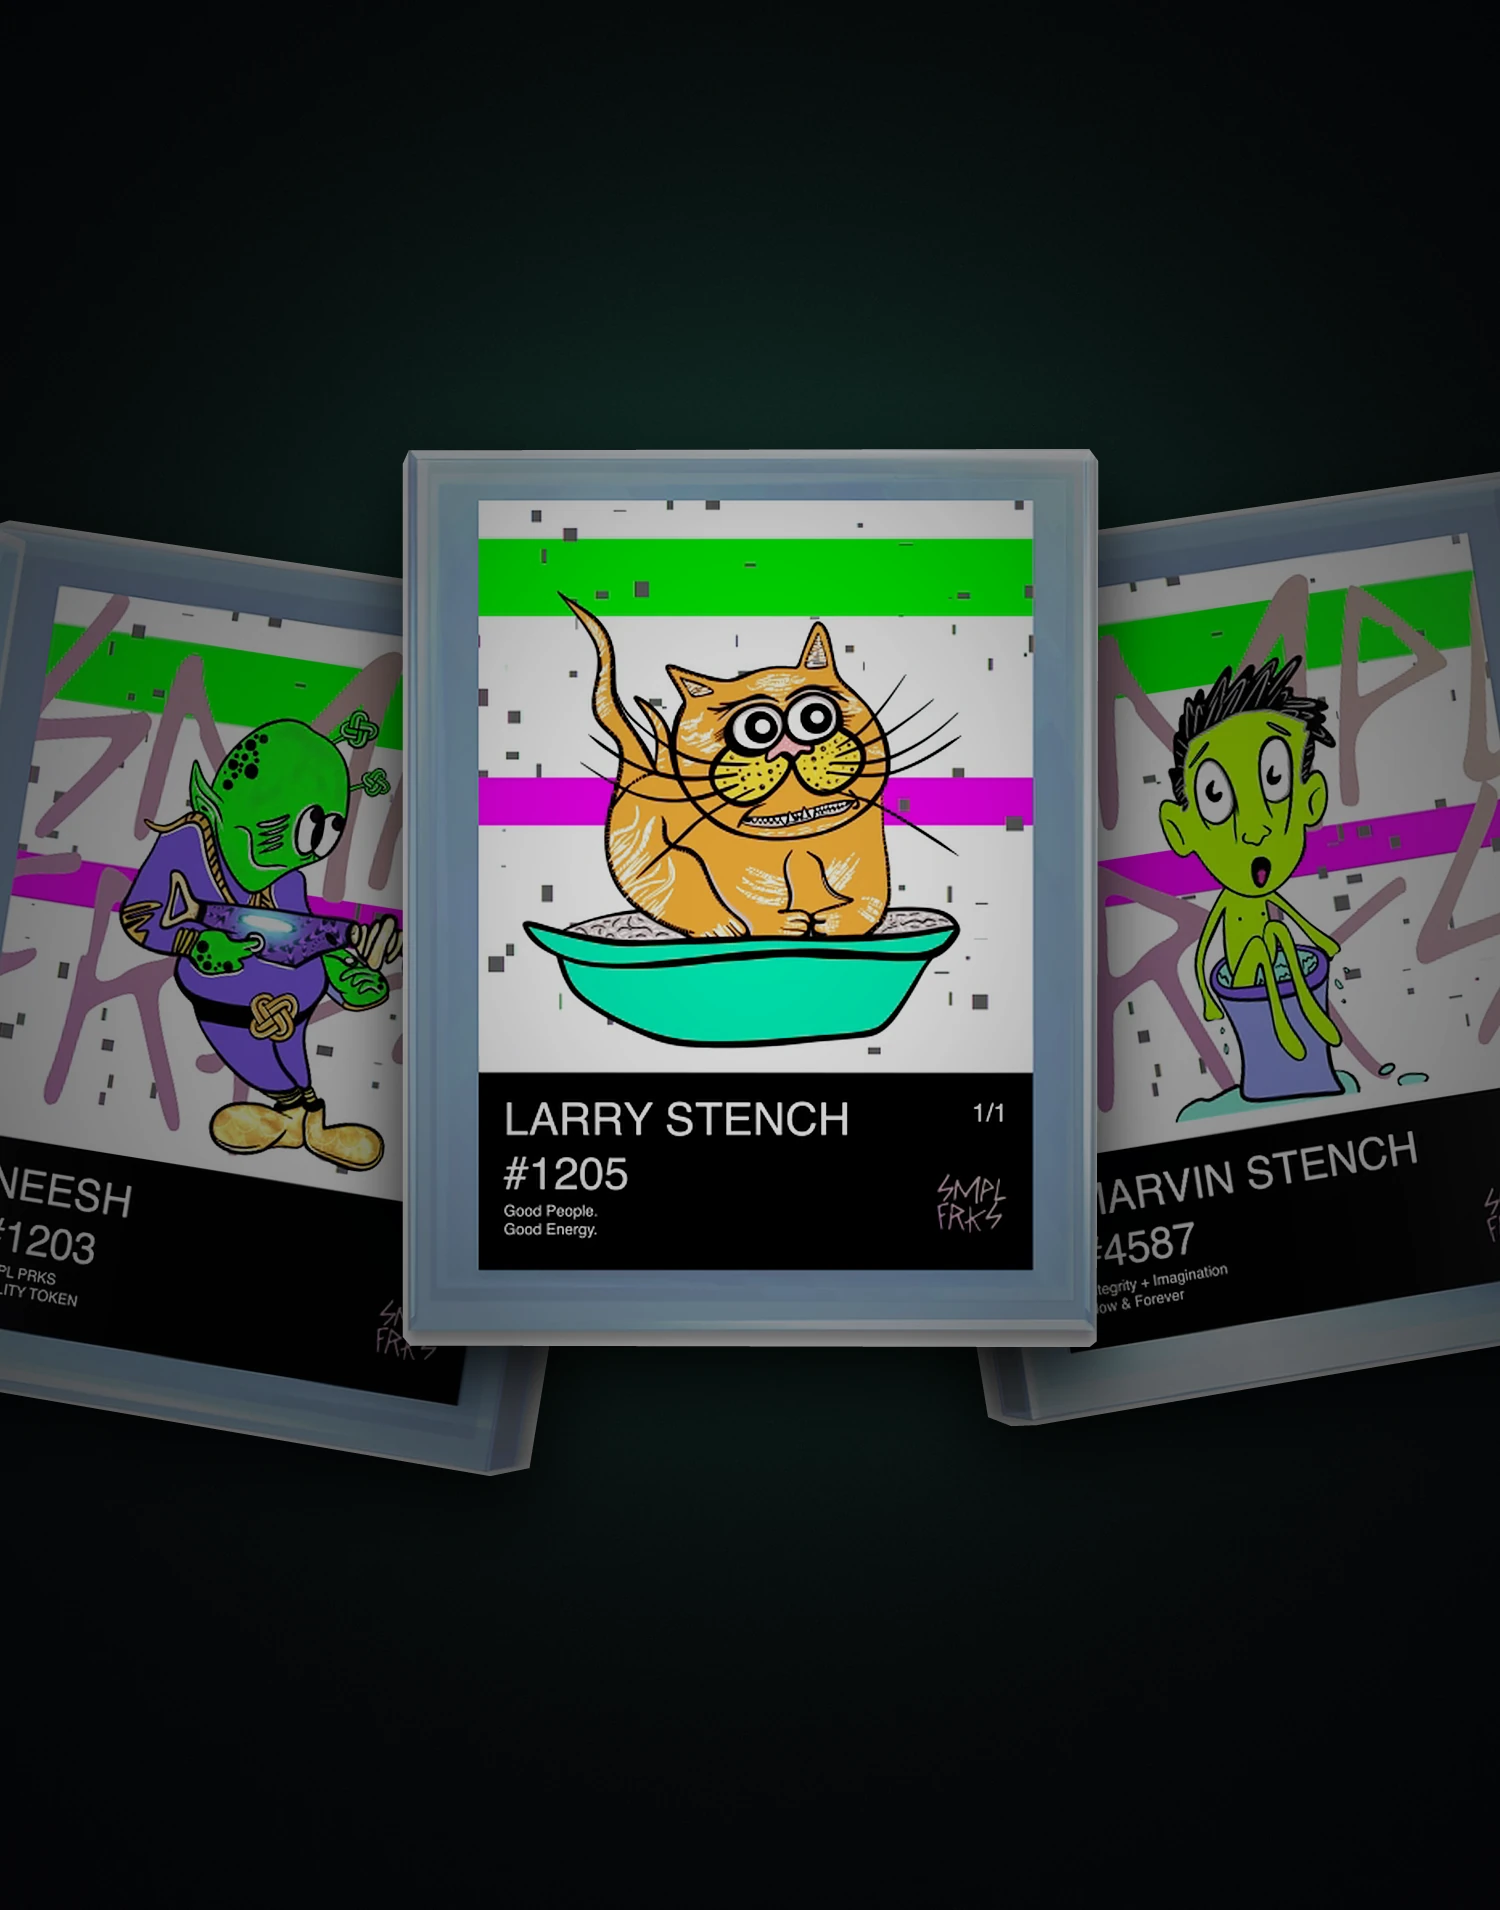
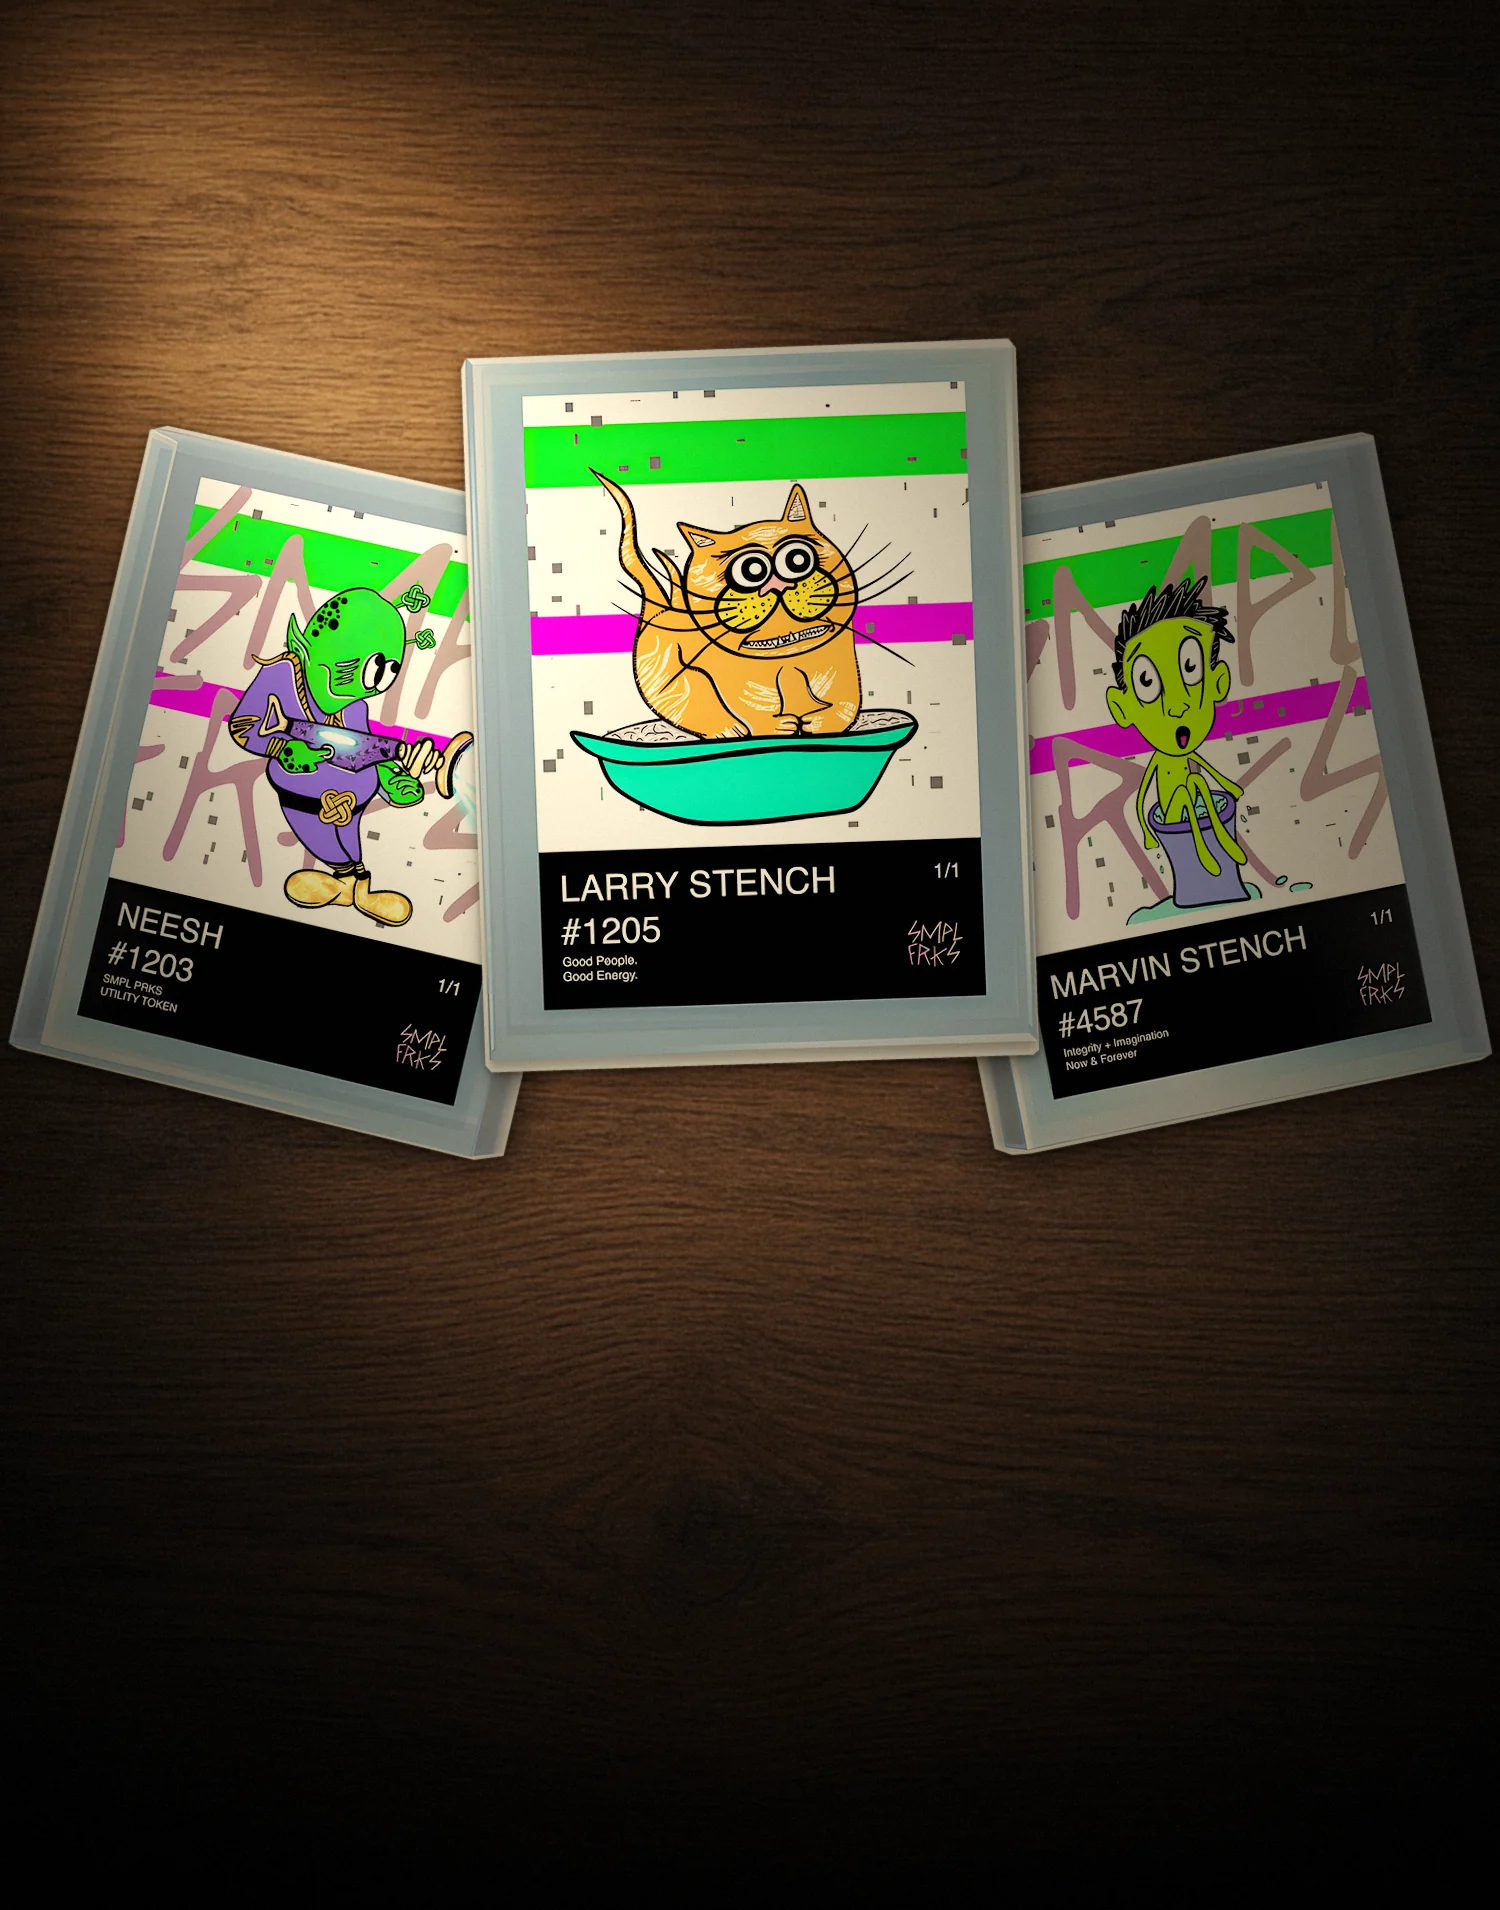
Home tiles: WINDOWS Owl close-up, NFTs cards on walnut table, Books from real hardcover photo (picture tall/std); remove v3 candidates

diff --git a/index.html b/index.html
@@ -383,7 +383,7 @@ body{padding-bottom:8.5rem}
     </header>
     <article class="panel books">
       <div class="media">
-        <img src="/studio/assets/books.webp" alt="Marvin Stench by Zepp" width="796" height="1348" loading="lazy">
+        <picture><source media="(min-width: 1281px)" srcset="/studio/assets/tiles/books-tall.webp" type="image/webp" width="880" height="2120"><img src="/studio/assets/tiles/books-std.webp" alt="Marvin Stench by Zepp, the hardcover" width="1500" height="1910" loading="lazy" decoding="async"></picture>
       </div>
       <div class="inner">
         <p class="panel-title">Marvin Stench</p>
@@ -434,7 +434,7 @@ body{padding-bottom:8.5rem}
     </header>
     <article class="panel nfts">
       <div class="media">
-        <picture><source media="(min-width: 1281px)" srcset="/studio/assets/tiles/nfts-tall.webp" type="image/webp" width="880" height="2120"><img src="/studio/assets/tiles/nfts-std.webp" alt="SMPL FRKS cards from the trailer: Neesh, Larry Stench and Marvin Stench" width="1500" height="1910" loading="lazy" decoding="async"></picture>
+        <picture><source media="(min-width: 1281px)" srcset="/studio/assets/tiles/nfts-tall.webp" type="image/webp" width="880" height="2120"><img src="/studio/assets/tiles/nfts-std.webp" alt="SMPL FRKS cards from the trailer on a walnut table: Neesh, Larry Stench and Marvin Stench" width="1500" height="1910" loading="lazy" decoding="async"></picture>
       </div>
       <div class="inner">
         <p class="panel-title">SMPL FRKS</p>
@@ -451,7 +451,7 @@ body{padding-bottom:8.5rem}
     </header>
     <article class="panel windows">
       <div class="media">
-        <picture><source media="(min-width: 1281px)" srcset="/studio/assets/tiles/windows-tall.webp" type="image/webp" width="880" height="2120"><img src="/studio/assets/tiles/windows-std.webp" alt="A salon wall of sold-out hand-painted windows: Owl, Amy, Gaga, Hendrix and The King Has Left The Planet" width="1500" height="1910" loading="lazy" decoding="async"></picture>
+        <picture><source media="(min-width: 1281px)" srcset="/studio/assets/tiles/windows-tall.webp" type="image/webp" width="880" height="2120"><img src="/studio/assets/tiles/windows-std.webp" alt="Close-up of the sold-out hand-painted Owl window" width="1500" height="1910" loading="lazy" decoding="async"></picture>
       </div>
       <div class="inner">
         <p class="panel-title">Sold out</p>

diff --git a/studio/index.html b/studio/index.html
@@ -383,7 +383,7 @@ body{padding-bottom:8.5rem}
     </header>
     <article class="panel books">
       <div class="media">
-        <img src="/studio/assets/books.webp" alt="Marvin Stench by Zepp" width="796" height="1348" loading="lazy">
+        <picture><source media="(min-width: 1281px)" srcset="/studio/assets/tiles/books-tall.webp" type="image/webp" width="880" height="2120"><img src="/studio/assets/tiles/books-std.webp" alt="Marvin Stench by Zepp, the hardcover" width="1500" height="1910" loading="lazy" decoding="async"></picture>
       </div>
       <div class="inner">
         <p class="panel-title">Marvin Stench</p>
@@ -434,7 +434,7 @@ body{padding-bottom:8.5rem}
     </header>
     <article class="panel nfts">
       <div class="media">
-        <picture><source media="(min-width: 1281px)" srcset="/studio/assets/tiles/nfts-tall.webp" type="image/webp" width="880" height="2120"><img src="/studio/assets/tiles/nfts-std.webp" alt="SMPL FRKS cards from the trailer: Neesh, Larry Stench and Marvin Stench" width="1500" height="1910" loading="lazy" decoding="async"></picture>
+        <picture><source media="(min-width: 1281px)" srcset="/studio/assets/tiles/nfts-tall.webp" type="image/webp" width="880" height="2120"><img src="/studio/assets/tiles/nfts-std.webp" alt="SMPL FRKS cards from the trailer on a walnut table: Neesh, Larry Stench and Marvin Stench" width="1500" height="1910" loading="lazy" decoding="async"></picture>
       </div>
       <div class="inner">
         <p class="panel-title">SMPL FRKS</p>
@@ -451,7 +451,7 @@ body{padding-bottom:8.5rem}
     </header>
     <article class="panel windows">
       <div class="media">
-        <picture><source media="(min-width: 1281px)" srcset="/studio/assets/tiles/windows-tall.webp" type="image/webp" width="880" height="2120"><img src="/studio/assets/tiles/windows-std.webp" alt="A salon wall of sold-out hand-painted windows: Owl, Amy, Gaga, Hendrix and The King Has Left The Planet" width="1500" height="1910" loading="lazy" decoding="async"></picture>
+        <picture><source media="(min-width: 1281px)" srcset="/studio/assets/tiles/windows-tall.webp" type="image/webp" width="880" height="2120"><img src="/studio/assets/tiles/windows-std.webp" alt="Close-up of the sold-out hand-painted Owl window" width="1500" height="1910" loading="lazy" decoding="async"></picture>
       </div>
       <div class="inner">
         <p class="panel-title">Sold out</p>
